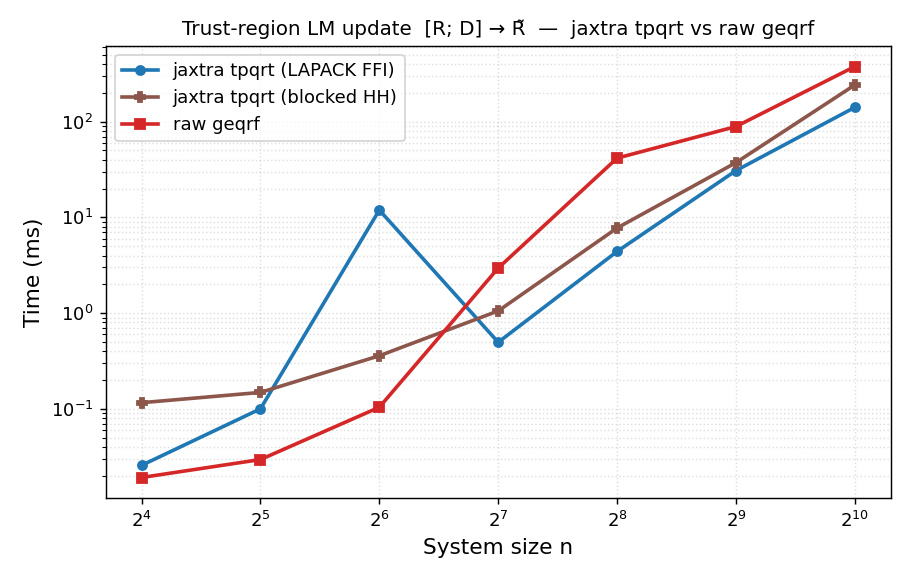
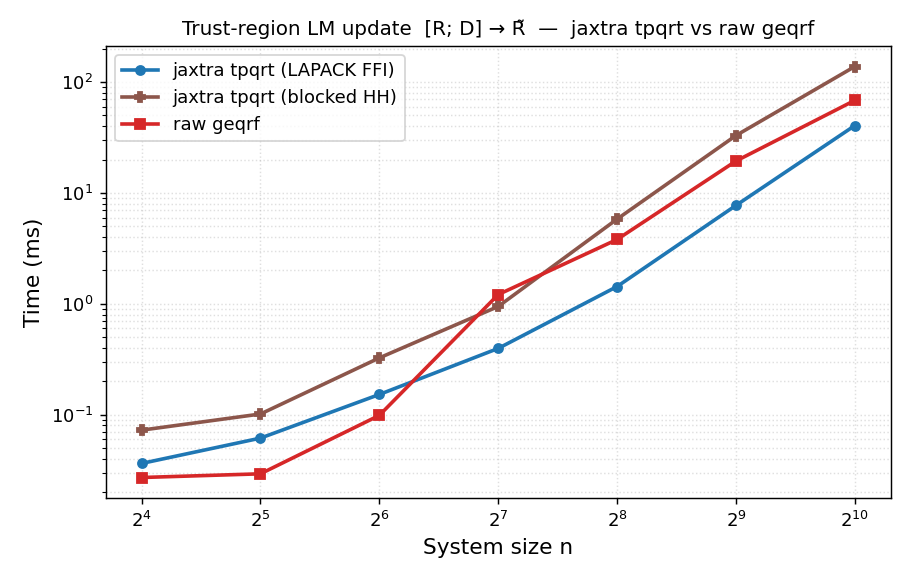
bench: report min wall-time; correct the geqrf comparison
The previous run measured geqrf at ~390 ms at n=1024 — a ~4x machine-load noise
spike — which made the blocked-Householder fallback look like it beat geqrf. It
does not. Switching the timing to the minimum over 25 reps (reproducible for a
deterministic compute kernel) gives the honest picture at n=1024:

  LAPACK FFI tpqrt ~41 ms, geqrf ~69 ms, blocked HH ~138 ms

i.e. the LAPACK FFI path beats geqrf ~1.7x (real structural advantage), while
the pure-JAX blocked fallback is ~2x slower than geqrf at large n and only
competitive around n=128. The geqrf return form (tuple vs triu) was confirmed
to make no timing difference. Fixes the corresponding overclaim in the blocked
fallback's docstring.

Claude-Session: https://claude.ai/code/session_01Aj8oNz6aLvSocZHjG7B84h

diff --git a/benchmarks/bench_tpqrt.py b/benchmarks/bench_tpqrt.py
@@ -90,8 +90,13 @@ def make_problem(n, dtype=np.float64):
 # Timing helper
 # ---------------------------------------------------------------------------
 
-def time_jax_fn(fn, *args, n_warmup=3, n_repeat=10):
-    """Warm up then return median wall-time in seconds."""
+def time_jax_fn(fn, *args, n_warmup=5, n_repeat=25):
+    """Warm up then return the *minimum* wall-time in seconds.
+
+    Minimum (not median) is reported: for a deterministic compute kernel the
+    fastest observed run is the least contended by other machine load, so it is
+    far more reproducible than the median on a shared/throttled host.
+    """
     for _ in range(n_warmup):
         jax.block_until_ready(fn(*args))
     times = []
@@ -99,7 +104,7 @@ def time_jax_fn(fn, *args, n_warmup=3, n_repeat=10):
         t0 = time.perf_counter()
         jax.block_until_ready(fn(*args))
         times.append(time.perf_counter() - t0)
-    return float(np.median(times))
+    return float(np.min(times))
 
 
 # ---------------------------------------------------------------------------
@@ -107,8 +112,8 @@ def time_jax_fn(fn, *args, n_warmup=3, n_repeat=10):
 # ---------------------------------------------------------------------------
 
 SIZES = [16, 32, 64, 128, 256, 512, 1024]
-N_WARMUP = 3
-N_REPEAT = 10
+N_WARMUP = 5
+N_REPEAT = 25
 
 METHODS = [
     ("jaxtra tpqrt (LAPACK FFI)",      "#1f77b4", "o"),

diff --git a/jaxtra/_src/lax/linalg.py b/jaxtra/_src/lax/linalg.py
@@ -762,7 +762,9 @@ def _tpqrt_blocked_householder_2d(a, b, l, nb):
        (BLAS-3): ``W = R_panelᵀ + V_Bᴴ B``, ``Z = Tᴴ W``,
        ``R_panel -= Z``, ``B -= V_B Z``.
 
-  The dense trailing update is what closes the gap to ``geqrf`` at large ``n``.
+  The BLAS-3 trailing update makes the fallback practical (~4x faster than the
+  unblocked sweep at n=1024), though on CPU it still trails LAPACK ``geqrf`` by
+  ~2x; the LAPACK FFI path is preferred whenever it is available.
   The panel loop is a Python loop (the panel count is static), so all offsets
   and slice widths are statically known — no padding, masking, or dynamic
   slicing. Only the within-panel work is a ``scan`` (over small fixed-size
